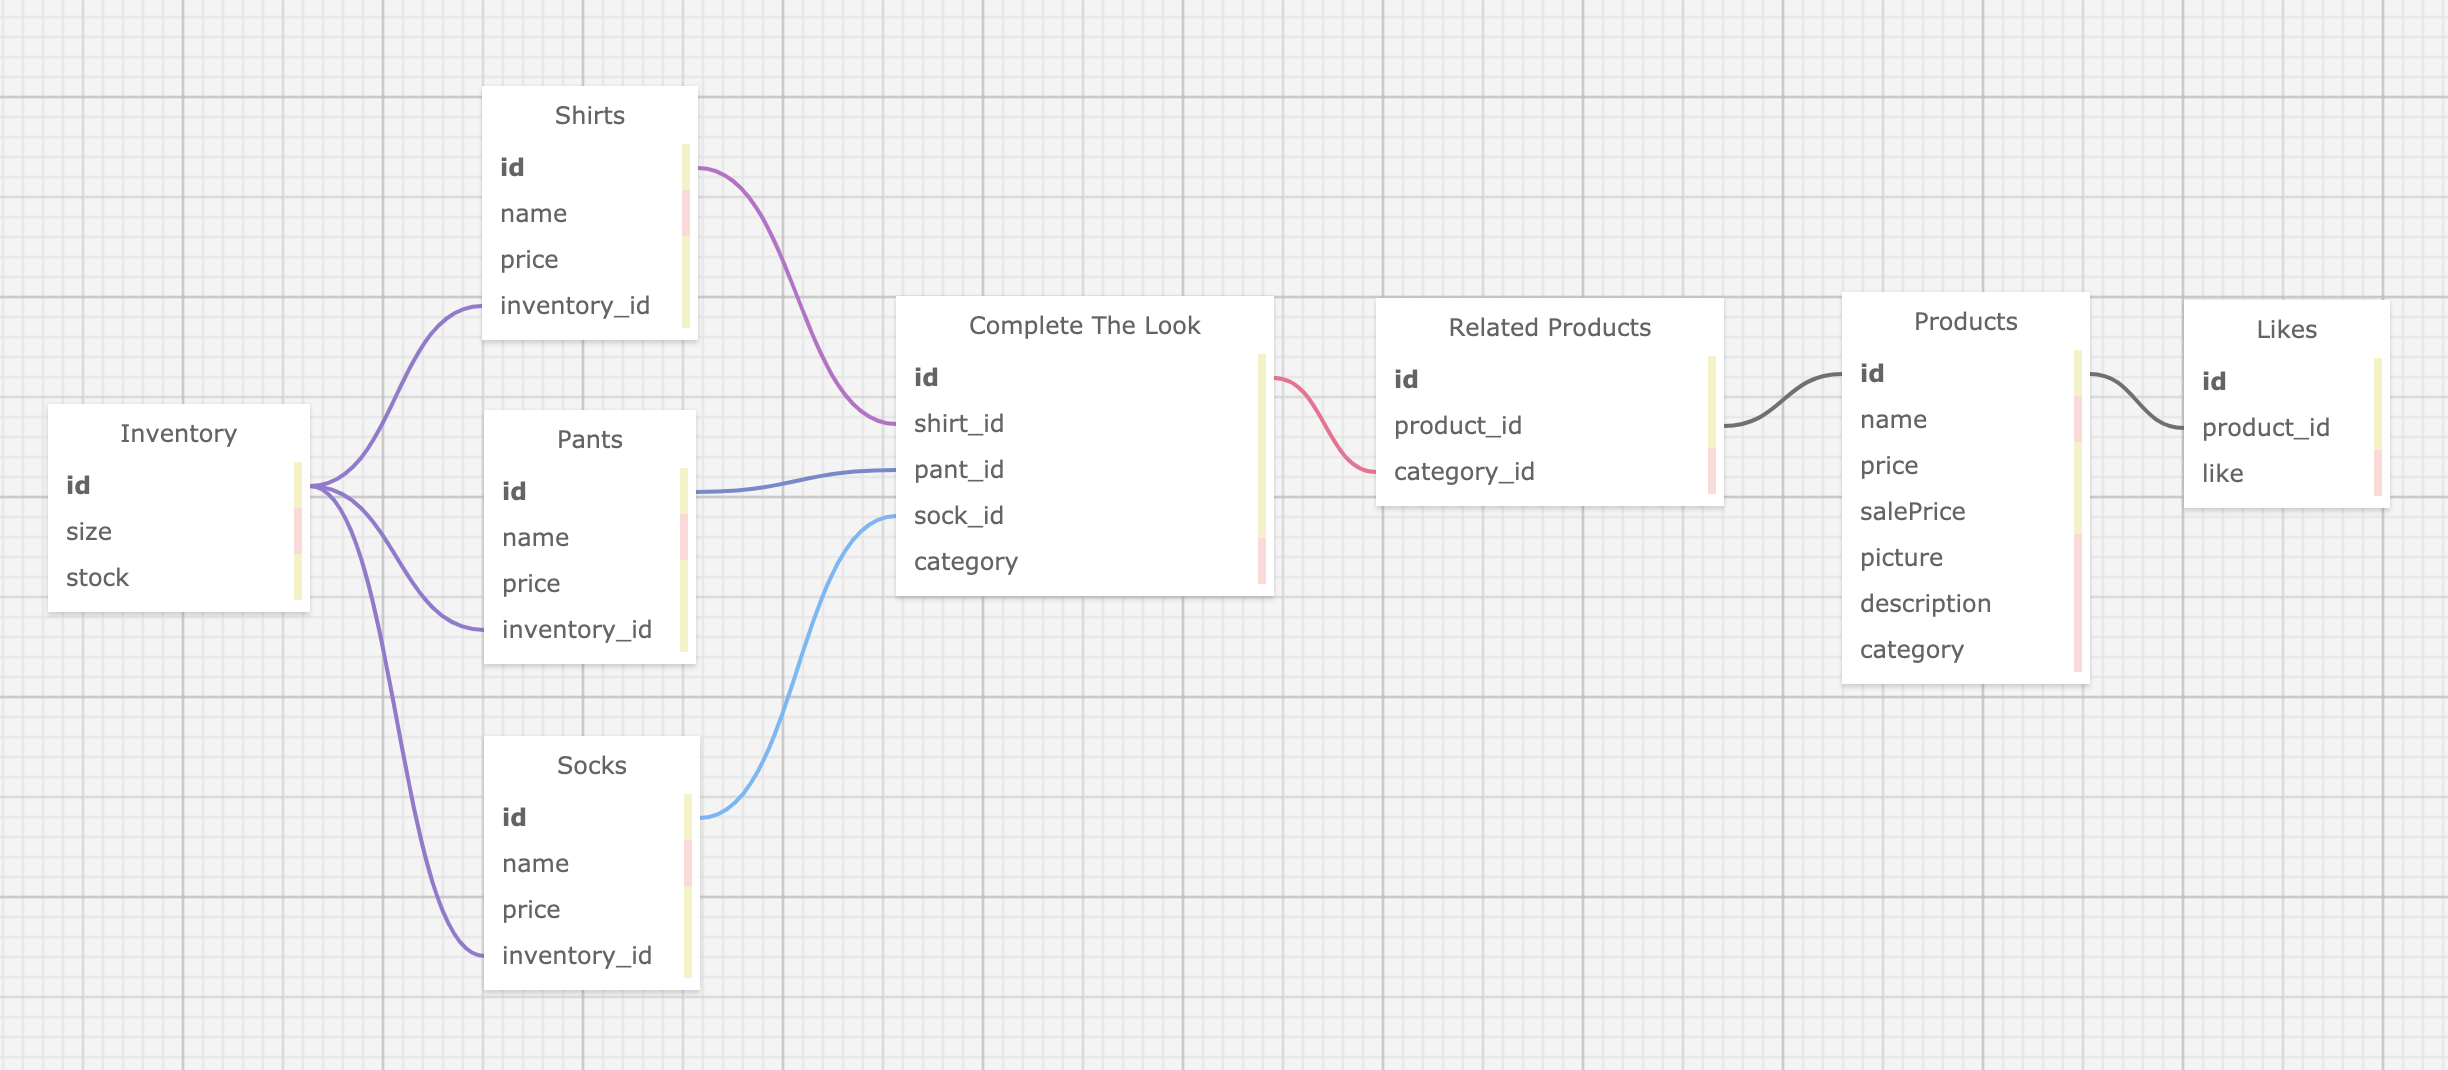
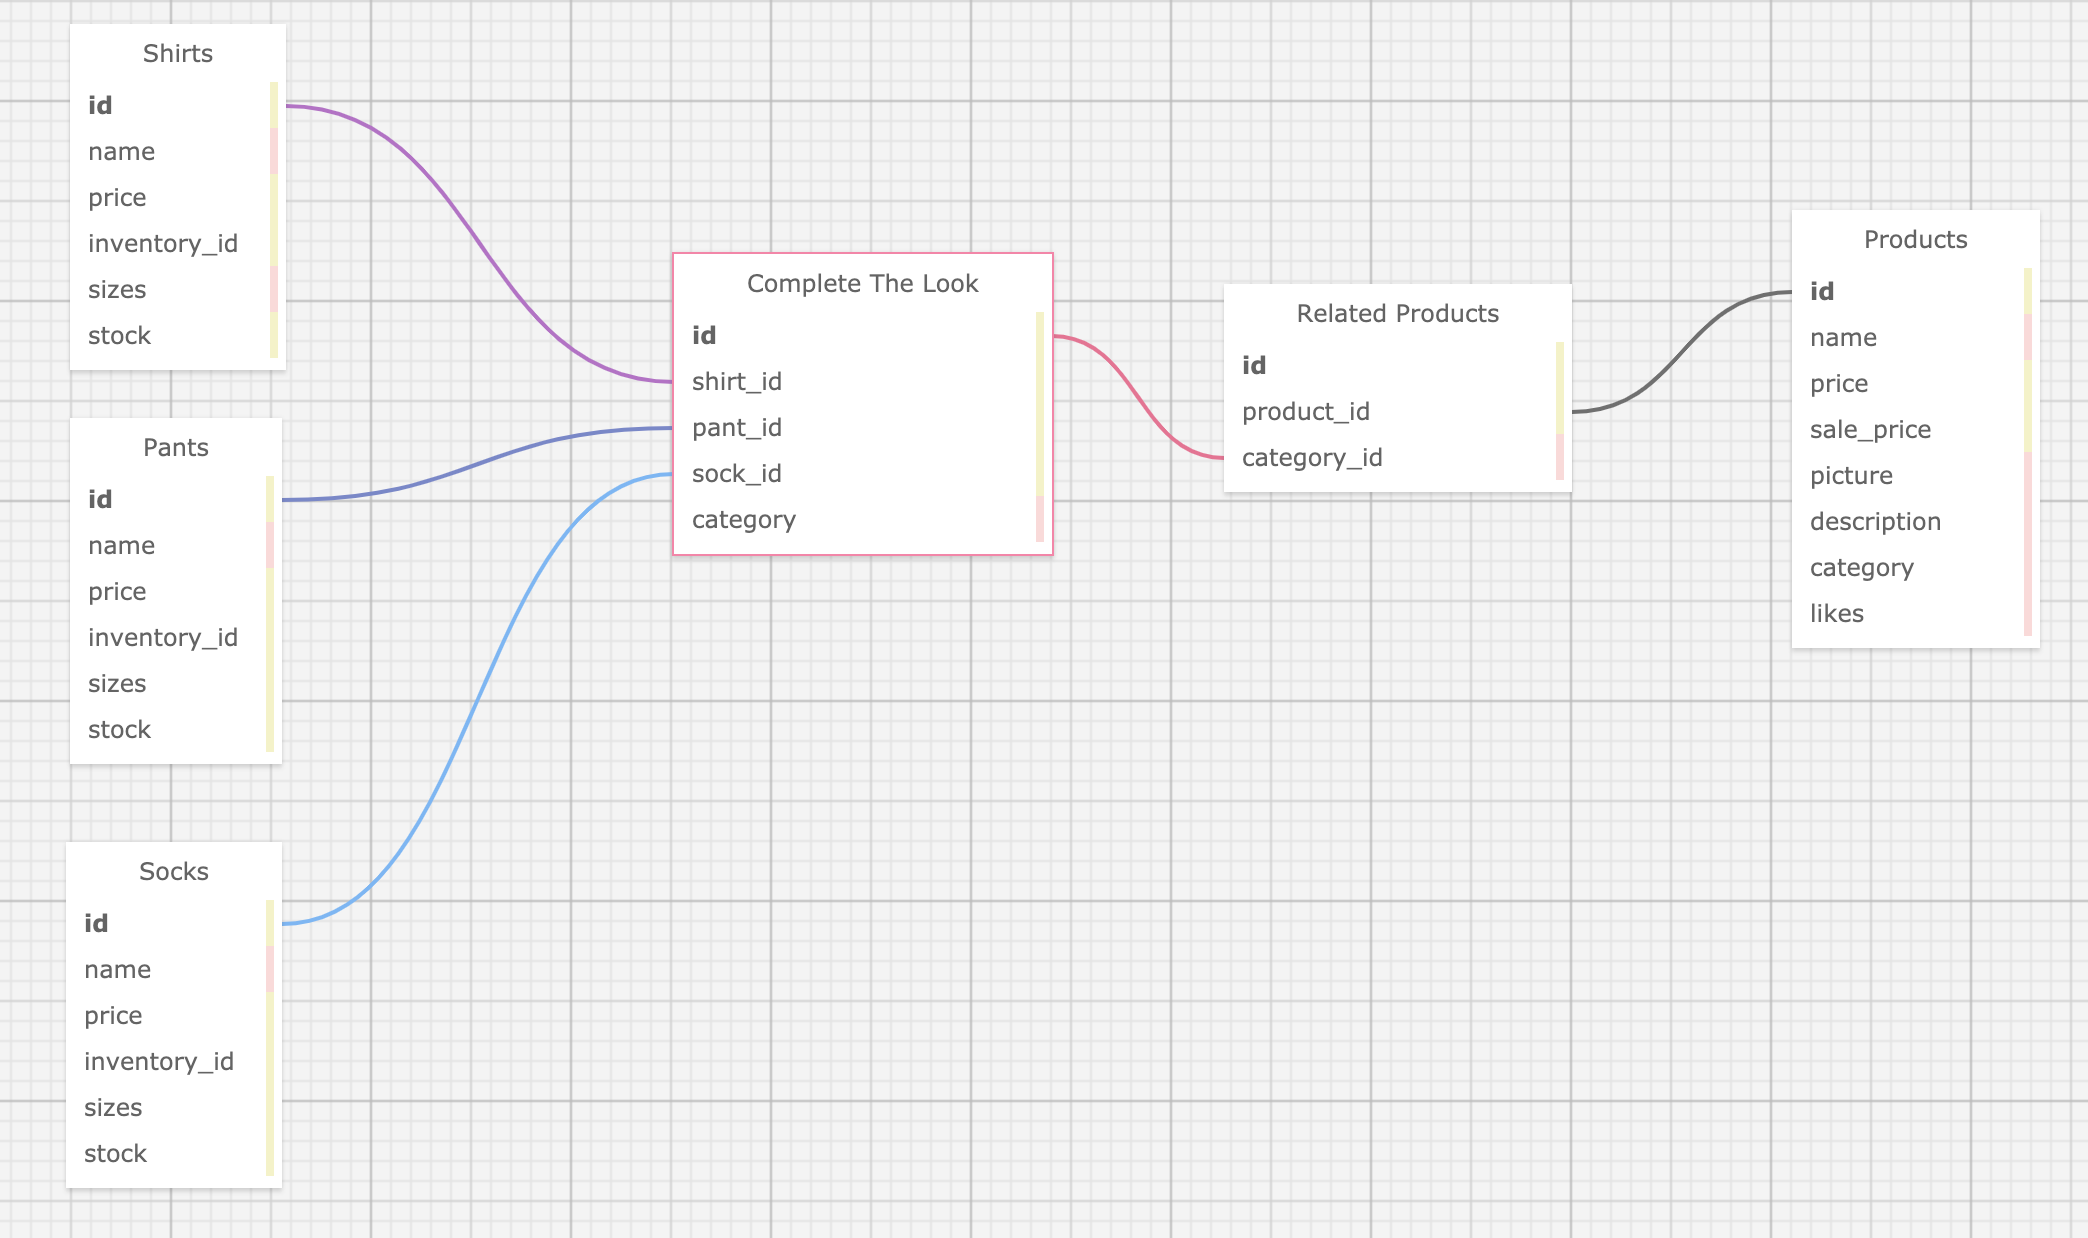
create sample schema and model for the two databases

diff --git a/server/sdc-db/sdc-mongoSchema.js b/server/sdc-db/sdc-mongoSchema.js
@@ -1,0 +1,56 @@
+const mongoose = require('mongoose');
+
+// shirt schema and model
+const shirtsSchema = new mongoose.Schema({
+  id: Number,
+  name: String,
+  price: Number,
+  sizes: ['x-small', 'small', 'medium', 'large', 'x-large'],
+  stock: Number
+};
+const shirtsModel = mongoose.model('Shirts', shirtsSchema);
+
+// pants schema and model
+const pantsSchema = new mongoose.Schema({
+  id: Number,
+  name: String,
+  price: Number,
+  sizes: ['x-small', 'small', 'medium', 'large', 'x-large'],
+  stock: Number
+};
+const pantsModel = mongoose.model('Pants', pantsSchema);
+
+// socks schema and model
+const socksSchema = new mongoose.Schema({
+  id: Number,
+  name: String,
+  price: Number,
+  sizes: ['x-small', 'small', 'medium', 'large', 'x-large'],
+  stock: Number
+};
+const socksModel = mongoose.model('Socks', socksSchema);
+
+// related product schema and model
+const relatedProductSchema = new mongoose.Schema({
+  id: Number,
+  name: String,
+  price: Number,
+  salePrice: Number,
+  picture: String,
+  description: String,
+  category: String,
+  likes: Boolean
+};
+const relatedProductModel = mongoose.model('relatedProduct', relatedProductSchema);
+
+// completTheLook schema and model
+const completeTheLook = new mongoose.Schema({
+    id: Number,
+    shirts: {type: Schema.ObjectId, ref: 'shirtsModel'},
+    pants: {type: Schema.ObjectId, ref: 'pantsModel'},
+    socks: {type: Schema.ObjectId, ref: 'pantsModel'},
+    relatedProduct: [{type: Schema.ObjectId, ref: 'relatedProductModel'}]
+});
+const CompleteTheLook = mongoose.model('CompleteTheLook', completeTheLook);
+
+module.exports.CompleteTheLook = CompleteTheLook;

diff --git a/server/sdc-db-config/mongo.config.js b/server/sdc-db-config/mongo.config.js
@@ -1,0 +1,6 @@
+const mongoose = require("mongoose");
+mongoose.Promise = global.Promise;
+
+mongoose.connect("mongodb://localhost:27017/adidas-related-info", () => {
+  console.log(`MongoDB is connected... at mongodb://localhost:27017`)
+});
